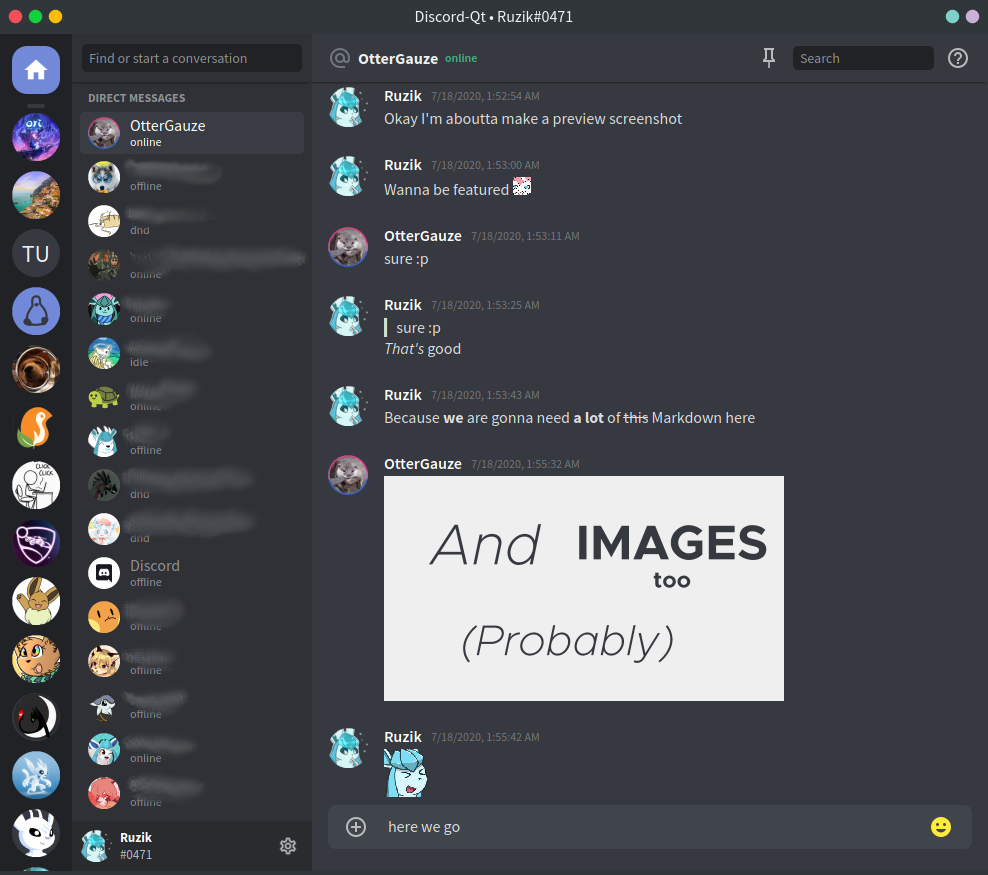
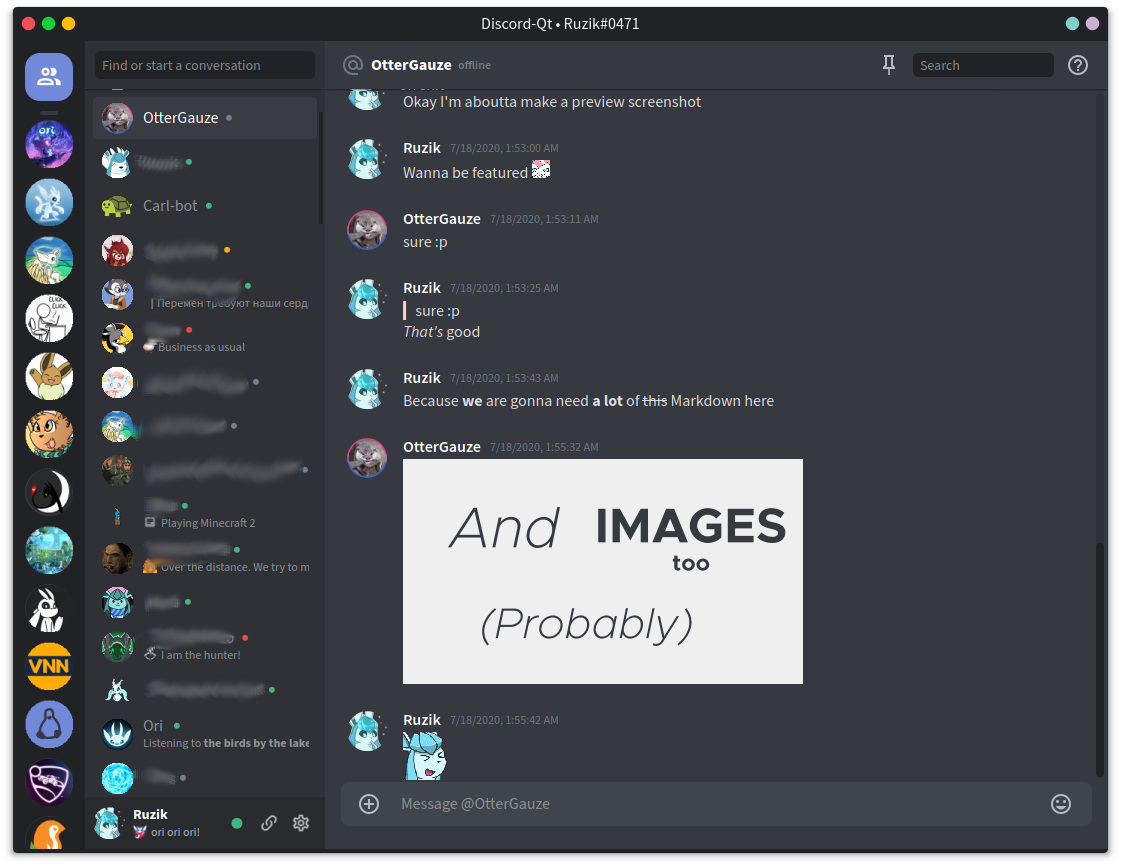
docs: update screenshot and purge config reference

diff --git a/src/components/UserPanel/UserPanel.ts b/src/components/UserPanel/UserPanel.ts
@@ -58,14 +58,14 @@ export class UserPanel extends QWidget {
     this.setMaximumSize(MAX_QSIZE, 52);
 
     controls.setContentsMargins(8, 8, 8, 8)
-    controls.setSpacing(8);
+    controls.setSpacing(0);
 
     avatar.setObjectName('UserAvatar');
     avatar.setFixedSize(32, 32);
 
     const layInfo = new QBoxLayout(Direction.TopToBottom);
     layInfo.setSpacing(0);
-    layInfo.setContentsMargins(0, 0, 0, 0);
+    layInfo.setContentsMargins(8, 0, 0, 0);
     nameLabel.setText('No account');
     nameLabel.setObjectName('NameLabel');
 
@@ -113,7 +113,6 @@ export class UserPanel extends QWidget {
     statusBtn.addEventListener('clicked', () => statusBtn.showMenu());
     statusBtn.setMenu(statusMenu);
 
-    /*
     const iBtn = new DIconButton({
       iconPath: path.join(__dirname, './assets/icons/invite.png'),
       iconQSize: new QSize(20, 20),
@@ -121,7 +120,7 @@ export class UserPanel extends QWidget {
     });
     iBtn.setFixedSize(32, 32);
     iBtn.addEventListener('clicked', () => app.emit(Events.SWITCH_VIEW, 'invite'));
-    */
+
     const setBtn = new DIconButton({
       iconPath: path.join(__dirname, './assets/icons/cog.png'),
       iconQSize: new QSize(20, 20),
@@ -132,6 +131,7 @@ export class UserPanel extends QWidget {
     controls.addWidget(avatar, 0);
     controls.addLayout(layInfo, 1);
     controls.addWidget(statusBtn, 0);
+    controls.addWidget(iBtn, 0);
     controls.addWidget(setBtn, 0);
   }
 

diff --git a/README.md b/README.md
@@ -32,24 +32,6 @@ npm start
 In order to run this application you **must** obtain a Discord user token [(how-to guide)](https://github.com/Tyrrrz/DiscordChatExporter/wiki/Obtaining-Token-and-Channel-IDs).
 You can configure your user accounts, as well as other settings in the Settings screen.
 
-
-There is also a config file `~/.config/discord-qt/config.json`, the file has the following schema:
-```js
-{
-  "accounts": [{ // this is your auth data
-    "token": "Nkj54hs...",
-    "username": "Discord User",
-    "discriminator": "0133",
-    "avatarUrl": "https://cdn.discordapp.com/avatars/..."
-  }],
-  "processMarkdown": true, // if true process Markdown in the messages
-  "enableAvatars": true, // if true loads user avatars
-  "roundifyAvatars": true, // determines whether you want to roundify every user avatar
-  "fastLaunch": false, // if true loads only first 5 guilds and first 5 DM users to launch faster
-  "debug": false // if true outputs some debug info
-}
-```
-
 ## Fonts
 By default, the application uses Source Sans Pro font. However, if you want an even more seamless experience, you need to obtain a copy of Whitney fonts (commercial fonts used by Discord) and put them into `/assets/fonts` folder. In order to activate them, uncomment line with Whitley font in `/src/windows/RootWindow.scss` and rebuild.
 
